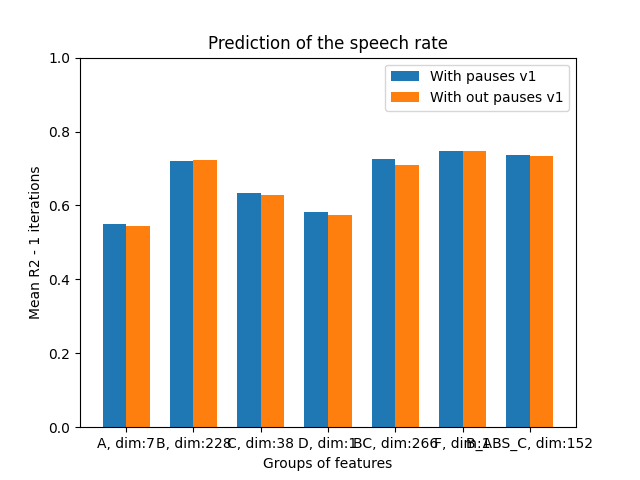
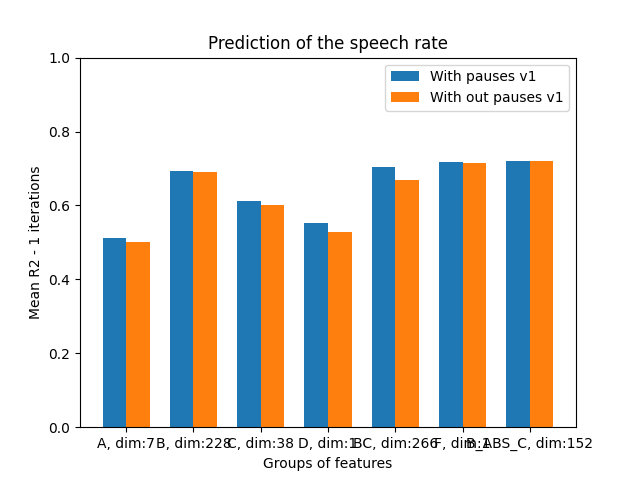
agrego cosas

diff --git a/src/processing/mean_speed_experiments/run_mean_speed_experiments.py b/src/processing/mean_speed_experiments/run_mean_speed_experiments.py
@@ -116,32 +116,46 @@ df_X_TEST['CHARSIU_mean_speed_wpau'] = charsiu_df_by_sample_test['mean_speed_wpa
 df_X_TEST['CHARSIU_mean_speed_wopau'] = charsiu_df_by_sample_test['mean_speed_wopau_v1']
 
 
+#%%
+
+
+df_X = df_X_TRAIN
+
+
 
 #%% -------------------------- SPLITTING -------------------------------------
-speaker_id = df_X_TRAIN['speaker_id'].unique()
+speaker_id = df_X['speaker_id'].unique()
 n_speakers = len(speaker_id)
 
-# 80% Train - 20% Val
-n_train = round(0.8*n_speakers)
-n_val = n_speakers - n_train
-# Choose randomly
+# 80% train, 20% VAL
+
+n_train = int(0.8*n_speakers)
+n_val = int(0.2*n_speakers)
+
+# Choose randomly set seed
+random.seed(42)
 random.shuffle(speaker_id)
 speaker_id_train = speaker_id[:n_train]
-speaker_id_val = speaker_id[n_train:]
+speaker_id_val = speaker_id[n_train:n_train+n_val]
+
+
 #%%
 # Filter the speaker_id_train
-df_TRAIN = df_X_TRAIN[df_X_TRAIN['speaker_id'].isin(speaker_id_train)]
-df_VAL = df_X_TRAIN[df_X_TRAIN['speaker_id'].isin(speaker_id_val)]
+df_TRAIN = df_X[df_X['speaker_id'].isin(speaker_id_train)]
+df_VAL = df_X[df_X['speaker_id'].isin(speaker_id_val)]
+df_TEST = df_X_TEST
 
 
 # %% TRAIN SET
 X_TRAIN  = df_TRAIN.drop(columns=['region_id', 'speaker_id', 'mean_speed_wpau_v1', 'mean_speed_wpau_v2', 'mean_speed_wopau_v1', 'mean_speed_wopau_v2'])
-y_TRAIN = df_TRAIN['mean_speed_wpau_v1']
+y_TRAIN = df_TRAIN[['mean_speed_wpau_v1', 'mean_speed_wopau_v1']]
+#%%
+
 X_VAL = df_VAL.drop(columns=['region_id', 'speaker_id', 'mean_speed_wpau_v1', 'mean_speed_wpau_v2', 'mean_speed_wopau_v1', 'mean_speed_wopau_v2'])
-y_VAL = df_VAL['mean_speed_wpau_v1']
+y_VAL = df_VAL[['mean_speed_wpau_v1', 'mean_speed_wopau_v1']]
 
 X_TEST = df_X_TEST.drop(columns=['region_id', 'speaker_id', 'mean_speed_wpau_v1', 'mean_speed_wpau_v2', 'mean_speed_wopau_v1', 'mean_speed_wopau_v2'])
-y_TEST = df_X_TEST['mean_speed_wpau_v1']
+y_TEST = df_X_TEST[['mean_speed_wpau_v1', 'mean_speed_wopau_v1']]
 
 
 # %% =================== FEATURES SELECTION ===================================
@@ -193,16 +207,21 @@ B_ABS_C = B_abs + C
 E = ['CHARSIU_mean_speed_wpau']
 
 
-features = [A,B,C,D,E,BC,B_ABS_C]
+features = [A,B,B_abs,C,D,E,BC,B_ABS_C]
+
+#%%
 N=1
 
-y_train = df_TRAIN['mean_speed_wpau_v1']
-y_val = df_VAL['mean_speed_wpau_v1']
-mean_score_features_wpau, mean_MSE_features_wpau, model_wp = ut.r2_experiment(df_TRAIN, df_VAL, y_train, y_val, features, N=N)
+y_train = y_TRAIN['mean_speed_wpau_v1']
+y_val = y_VAL['mean_speed_wpau_v1']
+y_test = y_TEST['mean_speed_wpau_v1']
+mean_score_features_wpau, mean_MSE_features_wpau, mode_wp, test_scores_wp= ut.r2_experiment(X_TRAIN, X_VAL,X_TEST, y_train, y_val, y_test, features, N=1)
+#%%
+y_train = y_TRAIN['mean_speed_wopau_v1']
+y_val = y_VAL['mean_speed_wopau_v1']
+y_test = y_TEST['mean_speed_wopau_v1']
 
-y_train = df_TRAIN['mean_speed_wopau_v1']
-y_val = df_VAL['mean_speed_wopau_v1']
-mean_score_features_wopau, mean_MSE_features_wopau, model_wop = ut.r2_experiment(df_TRAIN, df_VAL, y_train, y_val, features, N=N)
+mean_score_features_wopau, mean_MSE_features_wopau, model_wop, test_scores_wop = ut.r2_experiment(X_TRAIN, X_VAL,X_TEST, y_train, y_val, y_test, features, N=1)
 
 
 #%%
@@ -234,27 +253,30 @@ features = [A,B,B_abs,C,D,E,BC,B_ABS_C]
 
 dimensions = [len(A), len(B),len(B_abs), len(C), len(D), len(E), len(BC), len(B_ABS_C)]
 
-y_train = df_TRAIN['mean_speed_wpau_v1']
-y_val = df_VAL['mean_speed_wpau_v1']
+y_train = y_TRAIN['mean_speed_wpau_v1']
+y_val = y_VAL['mean_speed_wpau_v1']
+y_test = y_TEST['mean_speed_wpau_v1']
 
-mean_score_features_wpau, mean_MSE_features_wpau, mode_wp = ut.r2_experiment(df_TRAIN, df_VAL, y_train, y_val, features, N=1)
+
+mean_score_features_wpau, mean_MSE_features_wpau, mode_wp, test_scores_wp= ut.r2_experiment(X_TRAIN, X_VAL,X_TEST, y_train, y_val, y_test, features, N=1)
 #%%
-y_train = df_TRAIN['mean_speed_wopau_v1']
-y_val = df_VAL['mean_speed_wopau_v1']
+y_train = y_TRAIN['mean_speed_wopau_v1']
+y_val = y_VAL['mean_speed_wopau_v1']
+y_test = y_TEST['mean_speed_wopau_v1']
 
-mean_score_features_wopau, mean_MSE_features_wopau, model_wop = ut.r2_experiment(df_TRAIN, df_VAL, y_train, y_val, features, N=1)
+mean_score_features_wopau, mean_MSE_features_wopau, model_wop, test_scores_wop = ut.r2_experiment(X_TRAIN, X_VAL,X_TEST, y_train, y_val, y_test, features, N=1)
 
-#%%
-# Model WP in test
-
-test_scores_wp = []
-test_scores_wop = []
-for i in range(len(features)):
-     model_wp.fit(df_TRAIN[features[i]], df_TRAIN['mean_speed_wpau_v1'])
-     test_scores_wp.append(model_wp.score(df_X_TEST[features[i]], df_X_TEST['mean_speed_wpau_v1']))
-
-     model_wop.fit(df_TRAIN[features[i]], df_TRAIN['mean_speed_wopau_v1'])
-     test_scores_wop.append(model_wop.score(df_X_TEST[features[i]], df_X_TEST['mean_speed_wopau_v1']))
+##%%
+## Model WP in test
+#
+#test_scores_wp = []
+#test_scores_wop = []
+#for i in range(len(features)):
+#     model_wp.fit(X_TRAIN[features[i]], y_TRAIN['mean_speed_wpau_v1'])
+#     test_scores_wp.append(model_wp.score(X_TEST[features[i]], y_TEST['mean_speed_wpau_v1']))
+#
+#     model_wop.fit(X_TRAIN[features[i]], y_TRAIN['mean_speed_wopau_v1'])
+#     test_scores_wop.append(model_wop.score(X_TEST[features[i]], y_TEST['mean_speed_wopau_v1']))
 
 
 #%%
@@ -283,11 +305,20 @@ plt.legend(fontsize='17', title_fontsize='100')
 
 plt.grid(True, which='major', linestyle='--', linewidth='0.5', color='grey')  # Add grid lines for better measurement estimation
 plt.tight_layout()  # Adjust layout to ensure no overlap of text/labels
-plt.savefig('detailed_barplot_mean_speed_with_tone_variations.png')
+plt.savefig('experiment_1.png')
 
 plt.show()
 
 
 
 
+# %% Correlation Matrix
+
+# Compute the correlation matrix
+corr = df_TRAIN[A+D+E].corr()
+
+# plot the heatmap
+sns.heatmap(corr, 
+        xticklabels=corr.columns,
+        yticklabels=corr.columns, cmap='coolwarm')
 # %%

diff --git a/src/EDA/eda.py b/src/EDA/eda.py
@@ -90,15 +90,15 @@ std_speaker = df_X_TRAIN.groupby('speaker_id')['mean_speed_wpau_v1'].std()
 speaker_metrics = pd.concat([mean_speaker, std_speaker], axis=1)
 speaker_metrics.columns = ['mean_speed_wpau_v1', 'std_speed_wpau_v1']
 #%%
-# The 3 speakers with the highest mean speed
-fasters = speaker_metrics.nlargest(3, 'mean_speed_wpau_v1')
-# The 3 speakers with the lowest mean speed
-slowers =speaker_metrics.nsmallest(3, 'mean_speed_wpau_v1')
 
 #%%
 
 # Boxplot of the fasters and slowers speakers in the same plot 2 colors, one for fasters and one for slowers
 
+# The 3 speakers with the highest mean speed
+fasters = speaker_metrics.nlargest(3, 'mean_speed_wpau_v1')
+# The 3 speakers with the lowest mean speed
+slowers =speaker_metrics.nsmallest(3, 'mean_speed_wpau_v1')
 
 # Filter the data
 fasters_data = df_X_TRAIN[df_X_TRAIN['speaker_id'].isin(fasters.index)]
@@ -188,9 +188,50 @@ plt.show()
 
 
 
-#%% The same boxplot but adding the mean speed of all the speakers (this box bigger than the others)
 
 
+
+
+#%% Now overlaping using seaborn
+
+# Create the histogram
+
+# Define the data
+data = pd.DataFrame({'Con Pausas':df_X_TRAIN['mean_speed_wpau_v1'], 'Sin Pausas':df_X_TRAIN['mean_speed_wopau_v1']})
+
+
+
+
+#%%
+# Define the labels
+
+# Create the histogram with seaborn - normaliced
+
+fig, ax = plt.subplots(figsize=(10, 6))
+# Labels: Con pausas, Sin pausas
+sns.histplot(data, bins=20, color='b', alpha=0.5, kde=True, stat='density')
+# add labels
+
+
+# Adding labels and title
+
+plt.xlabel('Velocidad Media', fontsize=14, fontweight='bold')
+plt.ylabel('Densidad', fontsize=14, fontweight='bold')
+plt.title('Velocidad del Habla', fontsize=16, fontweight='bold')
+
+# Adding a legend
+
+plt.legend(title='Tipo de velocidad', loc='upper right', fontsize=12, labels=['Con Pausas', 'Sin Pausas'])
+
+
+# Adding grid for better readability
+
+plt.grid(True, linestyle='--', which='major', color='grey', alpha=0.5)
+
+# Show the plot
+plt.tight_layout()
+plt.savefig('histogram_speed_wpau_wopau.png')
+plt.show()
 # %% PCA
 from sklearn.decomposition import PCA
 
@@ -297,5 +338,113 @@ plt.show()
 #%% correlation
 
 
+
+# %% Region distribution
+
+# Region metrics
+
+# Mean speed by region
+
+mean_region = df_X_TRAIN.groupby('region_id')['mean_speed_wpau_v1'].mean()
+# Standard deviation of the speed by region
+std_region = df_X_TRAIN.groupby('region_id')['mean_speed_wpau_v1'].std()
+#%%
+# Merge
+region_metrics = pd.concat([mean_region, std_region], axis=1)
+region_metrics.columns = ['mean_speed_wpau_v1', 'std_speed_wpau_v1']
+
+#%%
+# Boxplot of the fasters and slowers speakers in the same plot 2 colors, one for fasters and one for slowers
+
+# The regions with the highest mean speed
+
+fasters = region_metrics.nlargest(3, 'mean_speed_wpau_v1')
+# The regions with the lowest mean speed
+slowers = region_metrics.nsmallest(3, 'mean_speed_wpau_v1')
+
+# Filter the data
+fasters_data = df_X_TRAIN[df_X_TRAIN['region_id'].isin(fasters.index)]
+slowers_data = df_X_TRAIN[df_X_TRAIN['region_id'].isin(slowers.index)]
+
+mean_speed = df_X_TRAIN['mean_speed_wpau_v1']
+
+#%% I need 3 boxplots: 1 of the fasters, 1 of the slowers and 1 using the information of all the data
+
+# array of each region
+
+l_fasters = []
+l_slowers = []
+for i in fasters.index:
+     l_fasters.append(df_X_TRAIN[df_X_TRAIN['region_id'] == i]['mean_speed_wpau_v1'])
+
+for i in slowers.index:
+     l_slowers.append(df_X_TRAIN[df_X_TRAIN['region_id'] == i]['mean_speed_wpau_v1'])
+
+# In opposite order
+
+l_slowers = l_slowers[::-1]
+
+data = l_fasters + [mean_speed] + l_slowers
+#%%
+# Sample data
+
+import matplotlib.pyplot as plt
+import numpy as np
+import seaborn as sns  # For better visual appeal
+
+# Setting a style
+sns.set(style="whitegrid")
+
+# Sample data for demonstration
+
+# Concatenating all data
+
+# Define speaker categories
+
+fasters_id = list(fasters.index)
+slowers_id = list(slowers.index)
+# Slowers in oposite order
+slowers_id = slowers_id[::-1]
+
+# Create the boxplot
+
+fig, ax = plt.subplots(figsize=(10, 6))
+box = plt.boxplot(data, patch_artist=True)
+
+# Colors for each boxplot: red for fasters, green for 'all', blue for slowers
+colors = ['r', 'r', 'r', 'g', 'b', 'b', 'b']
+
+# Setting colors for each box
+for patch, color in zip(box['boxes'], colors):
+    patch.set_facecolor(color)
+
+# Enhancing the median line visibility
+for median in box['medians']:
+    median.set_color('k')
+    median.set_linewidth(2)  # Make median lines thicker
+
+# Adding labels and title
+plt.ylabel('Velocidad Media', fontsize=14, fontweight='bold')
+plt.xlabel('Región (ID)', fontsize=14, fontweight='bold')
+plt.title('Analisis de la velocidad del habla por Región', fontsize=16, fontweight='bold')
+
+# Adding custom x-tick labels
+plt.xticks([1+0.15, 2+0.15, 3+0.15, 4+0.15, 5+0.15, 6+0.15, 7+0.15], fasters_id + ['Todos'] + slowers_id, rotation=0, ha='right', fontsize=12)
+
+# Adding grid for better readability
+plt.grid(True, linestyle='--', which='major', color='grey', alpha=0.5)
+
+# Add a legend with custom handles
+from matplotlib.patches import Patch
+legend_elements = [Patch(facecolor='r', label='Rápidos'),
+                   Patch(facecolor='g', label='Todos'),
+                   Patch(facecolor='b', label='Lentos')]
+ax.legend(handles=legend_elements, loc='upper right', fontsize=12)
+
+# Show the plot
+plt.tight_layout()  # Adjust the layout to make room for the rotated x-tick labels
+plt.savefig('boxplot_region.png')
+
+plt.show()
 
 # %%

diff --git a/src/utils.py b/src/utils.py
@@ -648,9 +648,10 @@ def get_real_speed_CHARSIU_TEXTLESS(sample_ids, data, train=True, step_size=1/60
     print('DONE. Time:' + str(tf-t0) + 's')
 
 
-def r2_experiment(df_train, df_val, y_train, y_val, features, N=10):
+def r2_experiment(df_train, df_val, df_test, y_train, y_val, y_test, features, N=10):
     MSE_features = np.zeros(len(features))
     scores = np.zeros(len(features))
+    test_scores = np.zeros(len(features))
     for j in range(N):
         for i in range(len(features)):
             print('Features:', features[i])
@@ -665,6 +666,14 @@ def r2_experiment(df_train, df_val, y_train, y_val, features, N=10):
             MSE_features[i] += mean_squared_error(y_val, y_pred)
             scores[i] += model.score(X_VAL_fi, y_val)
 
+            # Report scores in test
+
+            X_TEST_fi = df_test[features[i]]
+            y_pred = model.predict(X_TEST_fi)
+            test_score = model.score(X_TEST_fi, y_test)
+            test_scores[i] += test_score
+
     mean_score_features = scores/N
     mean_MSE_features = MSE_features/N
-    return mean_score_features, mean_MSE_features, model
+    mean_test_score = test_scores/N
+    return mean_score_features, mean_MSE_features, model, mean_test_score
